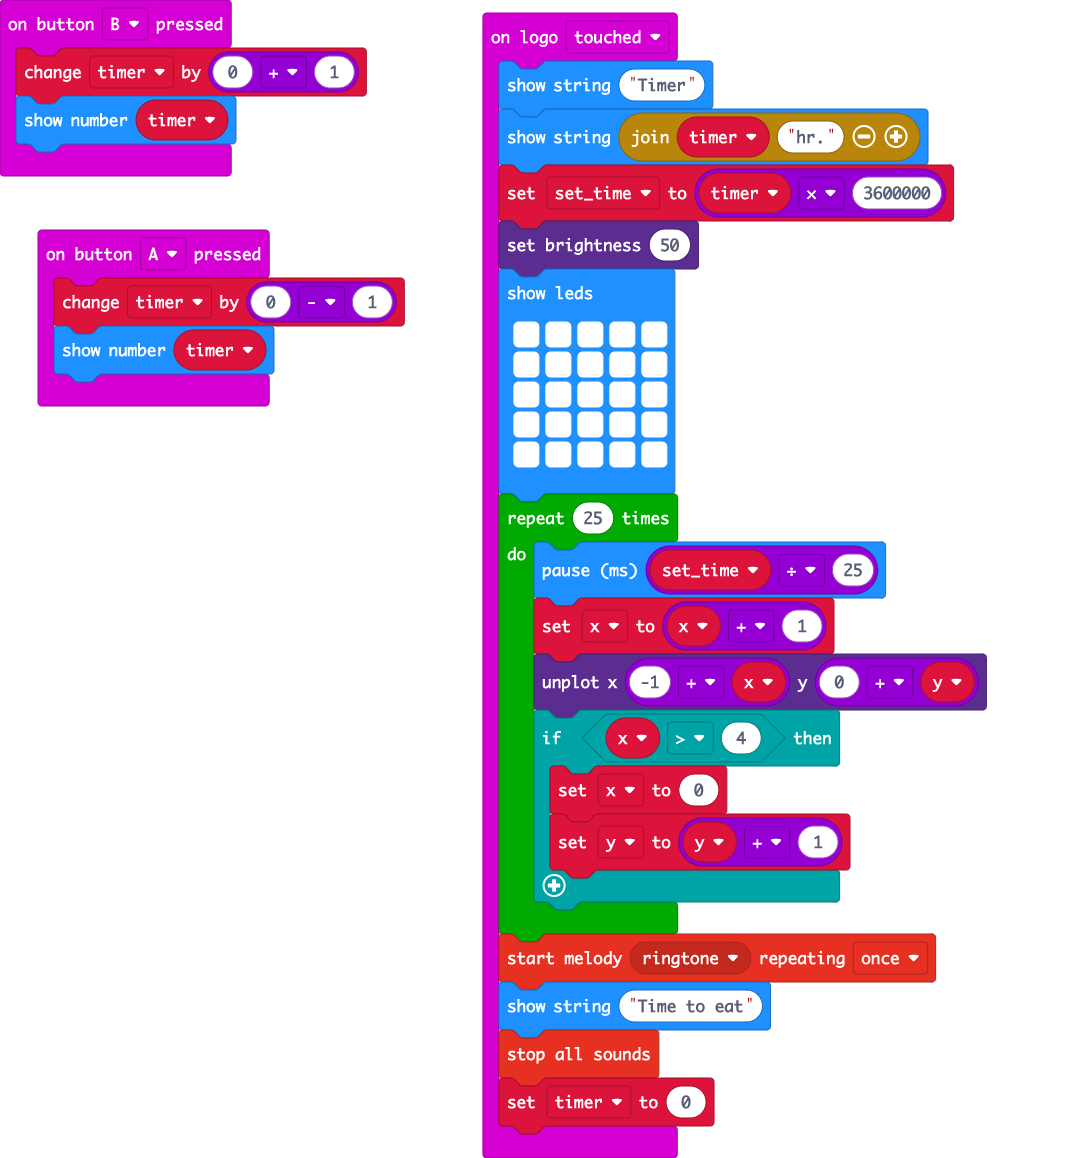
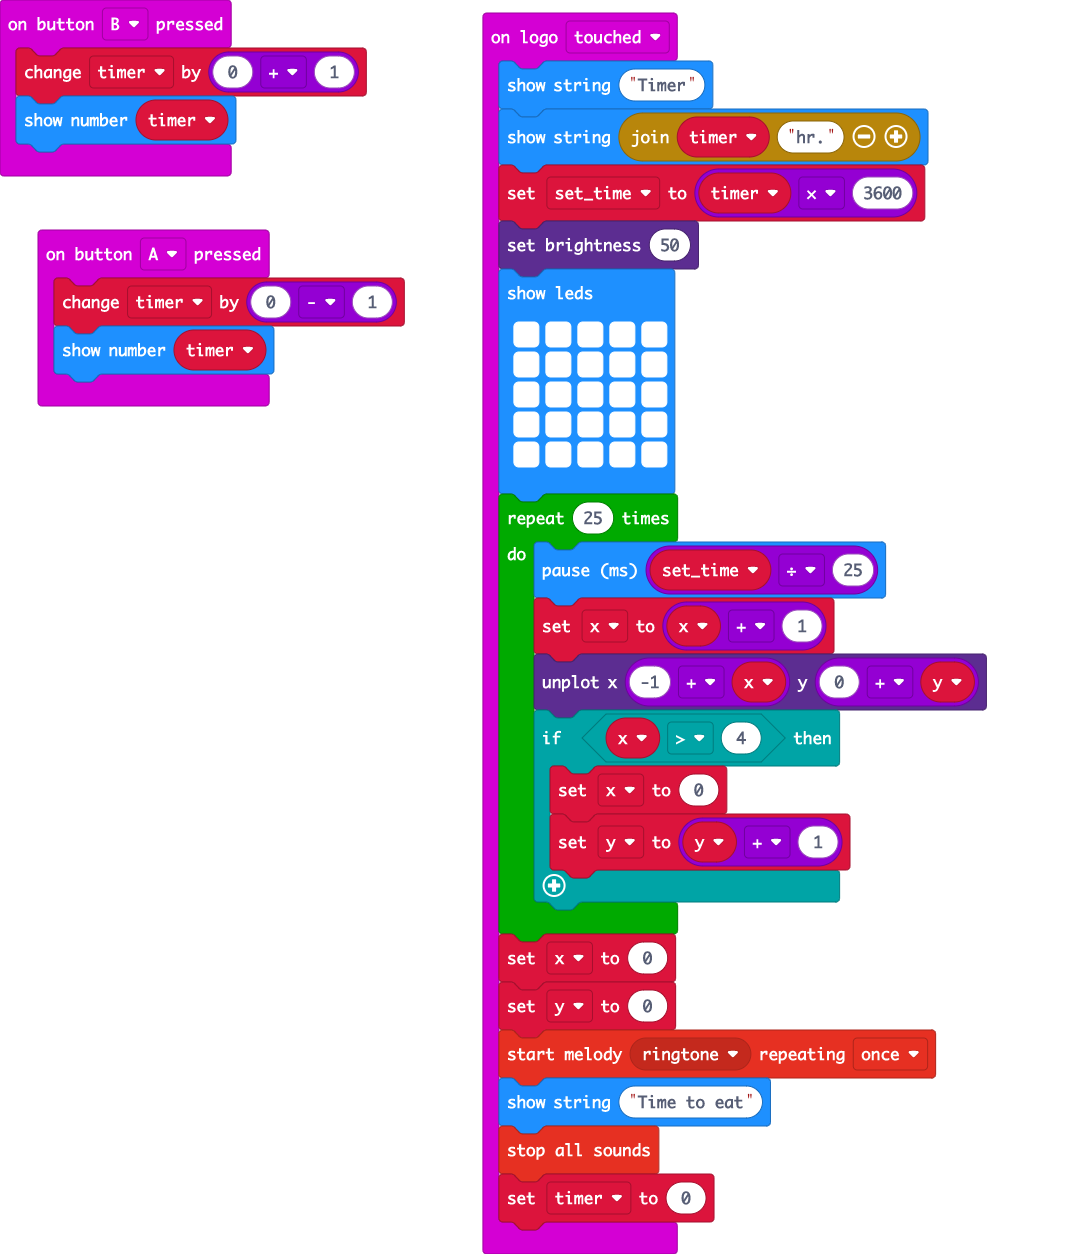
Update main.blocks, main.ts

Changed region(s): [[0.4367, 0.0, 0.9046, 0.9948], [0.0, 0.0, 0.3743, 0.3731]]

diff --git a/main.ts b/main.ts
@@ -13,7 +13,7 @@ input.onButtonPressed(Button.B, function () {
 input.onLogoEvent(TouchButtonEvent.Touched, function () {
     basic.showString("Timer")
     basic.showString("" + timer + "hr.")
-    set_time = timer * 3600000
+    set_time = timer * 3600
     led.setBrightness(50)
     basic.showLeds(`
         # # # # #
@@ -31,6 +31,8 @@ input.onLogoEvent(TouchButtonEvent.Touched, function () {
             y = y + 1
         }
     }
+    x = 0
+    y = 0
     music.startMelody(music.builtInMelody(Melodies.Ringtone), MelodyOptions.Once)
     basic.showString("Time to eat")
     music.stopAllSounds()
